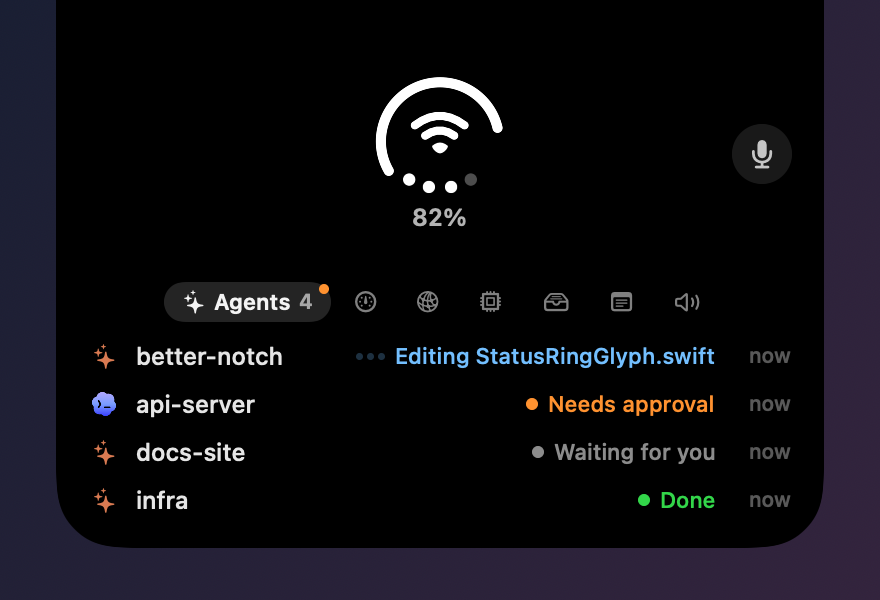
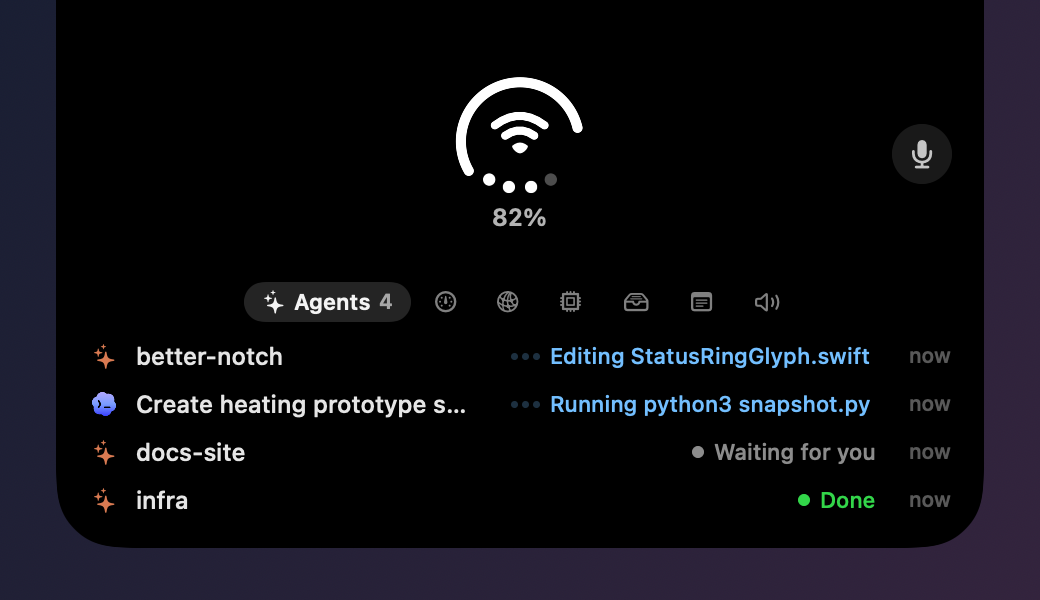
Agents tab sizes to its sessions, with hover highlight
- Island window widened to 536 pt so tabs can grow to 464 pt
- Agents tab width follows its longest name and step, between 384 and 464
- Status text takes only its own width; the session name gets the rest
- Command steps show the program name, not its full path
- Rows highlight and show a pointing hand on hover

diff --git a/Notchly/Views/Island/ExtrasPanelView.swift b/Notchly/Views/Island/ExtrasPanelView.swift
@@ -464,6 +464,7 @@ struct MicMuteButton: View {
 
 private struct AgentSessionsListView: View {
     @ObservedObject var tracker: AgentSessionTracker
+    @State private var hoveredID: String?
 
     var body: some View {
         if tracker.sessions.isEmpty {
@@ -479,15 +480,55 @@ private struct AgentSessionsListView: View {
                             tracker.activate(session)
                         } label: {
                             AgentSessionRow(session: session, now: context.date)
+                                .padding(.horizontal, 8)
+                                .frame(height: ExtrasPanelView.agentRowHeight)
+                                .background(
+                                    RoundedRectangle(cornerRadius: 9, style: .continuous)
+                                        .fill(Color.white.opacity(hoveredID == session.id ? 0.1 : 0))
+                                )
                                 .contentShape(Rectangle())
                         }
                         .buttonStyle(.plain)
-                        .frame(height: ExtrasPanelView.agentRowHeight)
+                        .padding(.horizontal, -8)
+                        .onHover { hovering in
+                            withAnimation(.easeOut(duration: 0.12)) {
+                                if hovering {
+                                    hoveredID = session.id
+                                } else if hoveredID == session.id {
+                                    hoveredID = nil
+                                }
+                            }
+                            if hovering { NSCursor.pointingHand.set() } else { NSCursor.arrow.set() }
+                        }
                         .help(Text(verbatim: "\(session.sourceLabel) · \(session.displayName) · click to show it"))
                     }
                 }
             }
         }
+    }
+}
+
+/// Sizes for an Agents row; the tab width is worked out from them.
+enum AgentRowMetrics {
+    static let maxNameWidth: CGFloat = 190
+    static let maxStatusWidth: CGFloat = 210
+    /// Icon, spacing, status dot and time: everything in a row except the two texts.
+    static let fixedWidth: CGFloat = 16 + 8 + 6 + 18 + 5 + 8 + 30
+    static let nameFont = NSFont.systemFont(ofSize: 12, weight: .medium)
+    static let statusFont = NSFont.systemFont(ofSize: 11, weight: .medium)
+
+    /// Width of the widest row's content, each text up to its cap.
+    static func contentWidth(for sessions: [AgentSession]) -> CGFloat {
+        sessions.map { session in
+            let name = (session.displayName as NSString).size(withAttributes: [.font: nameFont]).width
+            return min(ceil(name) + 2, maxNameWidth) + statusWidth(for: session) + fixedWidth
+        }.max() ?? 0
+    }
+
+    /// The status text's own width, up to its cap, so it never claims space it does not use.
+    static func statusWidth(for session: AgentSession) -> CGFloat {
+        let width = (session.statusText as NSString).size(withAttributes: [.font: statusFont]).width
+        return min(ceil(width) + 2, maxStatusWidth)
     }
 }
 
@@ -536,7 +577,7 @@ private struct AgentSessionRow: View {
                         .foregroundStyle(stateColor)
                         .lineLimit(1)
                         .truncationMode(.middle)
-                        .frame(maxWidth: 170, alignment: .trailing)
+                        .frame(width: AgentRowMetrics.statusWidth(for: session), alignment: .leading)
                 } else {
                     Text(session.state.label)
                         .font(.system(size: 11, weight: .medium))

diff --git a/Notchly/Debug/ReadmeImageRenderer.swift b/Notchly/Debug/ReadmeImageRenderer.swift
@@ -77,8 +77,10 @@ enum ReadmeImageRenderer {
         environment.agentEventManager.sessionTracker.previewLoad([
             AgentSession(id: "s1", source: "claude", project: "better-notch", pid: nil, state: .working,
                          stateSince: now.addingTimeInterval(-312), currentStep: "Editing StatusRingGlyph.swift", lastActivity: now),
-            AgentSession(id: "s2", source: "codex", project: "api-server", pid: nil, state: .needsApproval,
-                         stateSince: now.addingTimeInterval(-40), currentStep: "npm test", lastActivity: now),
+            AgentSession(id: "s2", source: "codex", project: "referenced-chatgpt-conversation", title: "Create heating prototype snapshot",
+                         pid: nil, state: .working, stateSince: now.addingTimeInterval(-40),
+                         currentStep: AgentSessionTracker.stepText(toolName: "exec_command", hint: "cmd:/Users/me/.venv/lib/python/bin/python3 snapshot.py"),
+                         lastActivity: now),
             AgentSession(id: "s3", source: "claude", project: "docs-site", pid: nil, state: .waiting,
                          stateSince: now.addingTimeInterval(-95), currentStep: nil, lastActivity: now),
             AgentSession(id: "s4", source: "claude", project: "infra", pid: nil, state: .done,
@@ -154,7 +156,9 @@ private struct OpenedIsland: View {
     let tab: ExtrasPanelModel.Tab
 
     var body: some View {
-        let width: CGFloat = 384
+        let width: CGFloat = tab == .agents
+            ? min(max(AgentRowMetrics.contentWidth(for: environment.agentEventManager.sessionTracker.sessions) + 32, 384), IslandLayout.maxOpenedWidth)
+            : 384
         let extras = ExtrasPanelView.height(
             tab: tab,
             sessions: environment.agentEventManager.sessionTracker.sessions.count,

diff --git a/Notchly/Managers/AgentSessionTracker.swift b/Notchly/Managers/AgentSessionTracker.swift
@@ -51,6 +51,12 @@ nonisolated struct AgentSession: Identifiable, Equatable {
     var displayName: String {
         title ?? project ?? sourceLabel
     }
+
+    /// The right side of an Agents row: what it is doing while working, else its state.
+    var statusText: String {
+        if state == .working, let currentStep { return currentStep }
+        return state.label
+    }
 }
 
 @MainActor
@@ -216,7 +222,12 @@ final class AgentSessionTracker: ObservableObject {
             }
         }
         if let hint, hint.hasPrefix("cmd:") {
-            let command = String(hint.dropFirst(4)).trimmingCharacters(in: .whitespaces)
+            // "/Users/me/.venv/bin/python3 build.py" reads better as "python3 build.py".
+            let command = hint.dropFirst(4)
+                .split(separator: " ")
+                .map { word in word.contains("/") ? (word.split(separator: "/").last.map(String.init) ?? String(word)) : String(word) }
+                .joined(separator: " ")
+                .trimmingCharacters(in: .whitespaces)
             return command.isEmpty ? "Running a command" : "Running \(command)"
         }
         switch lower {

diff --git a/Notchly/Views/Island/Logic/ContentView+Computed.swift b/Notchly/Views/Island/Logic/ContentView+Computed.swift
@@ -45,7 +45,11 @@ extension ContentView {
         guard showsExtrasPanel, let tab = selectedExtrasTab else { return nil }
         let wanted: CGFloat
         switch tab {
-        case .agents, .ports, .system, .shelf, .usage:
+        case .agents:
+            // Grows to fit the longest session name and step, up to the window's limit.
+            let sessions = Array(sessionTracker.sessions.prefix(6))
+            wanted = min(max(AgentRowMetrics.contentWidth(for: sessions) + 32, 384), IslandLayout.maxOpenedWidth)
+        case .ports, .system, .shelf, .usage:
             wanted = 384
         case .note, .output:
             wanted = 344

diff --git a/Notchly/Models/IslandLayout.swift b/Notchly/Models/IslandLayout.swift
@@ -59,8 +59,11 @@ struct IslandLayout {
     /// The opened notch is wider than the closed one, so the extras tabs have room.
     /// Capped so it stays inside the 456 pt island window with its rounded corners.
     var openedWidth: CGFloat {
-        min(max(preferredOpenedWidth ?? baseWidth + 50, 340), 384)
+        min(max(preferredOpenedWidth ?? baseWidth + 50, 340), Self.maxOpenedWidth)
     }
+
+    /// The widest opened island that still fits the window with its rounded corners.
+    static let maxOpenedWidth: CGFloat = 464
 
     var openedSize: CGSize {
         CGSize(width: openedWidth, height: 132 + openedExtraHeight)

diff --git a/Notchly/App/SkyLightOverlayController.swift b/Notchly/App/SkyLightOverlayController.swift
@@ -717,8 +717,9 @@ final class SkyLightOverlayController {
     }
 
     private var islandWindowSize: CGSize {
-        // Tall enough for the music player with volume open plus six listening ports.
-        CGSize(width: 456, height: 470)
+        // Tall enough for the music player with volume open plus six listening ports, and
+        // wide enough for the widest tab. Clicks pass through its transparent parts.
+        CGSize(width: IslandCanvas.width, height: 470)
     }
 
     private func lockScreenPlayerYPosition(for screen: NSScreen) -> CGFloat {

diff --git a/Notchly/Views/Island/IslandContainerView.swift b/Notchly/Views/Island/IslandContainerView.swift
@@ -69,5 +69,10 @@ struct IslandContainerView<Content: View>: View {
     }
 
     /// The island window's width; wider than any island shape.
-    static var canvasWidth: CGFloat { 456 }
+    static var canvasWidth: CGFloat { IslandCanvas.width }
+}
+
+/// Shared with the window controller, which cannot name the generic view's static.
+enum IslandCanvas {
+    static let width: CGFloat = 536
 }
